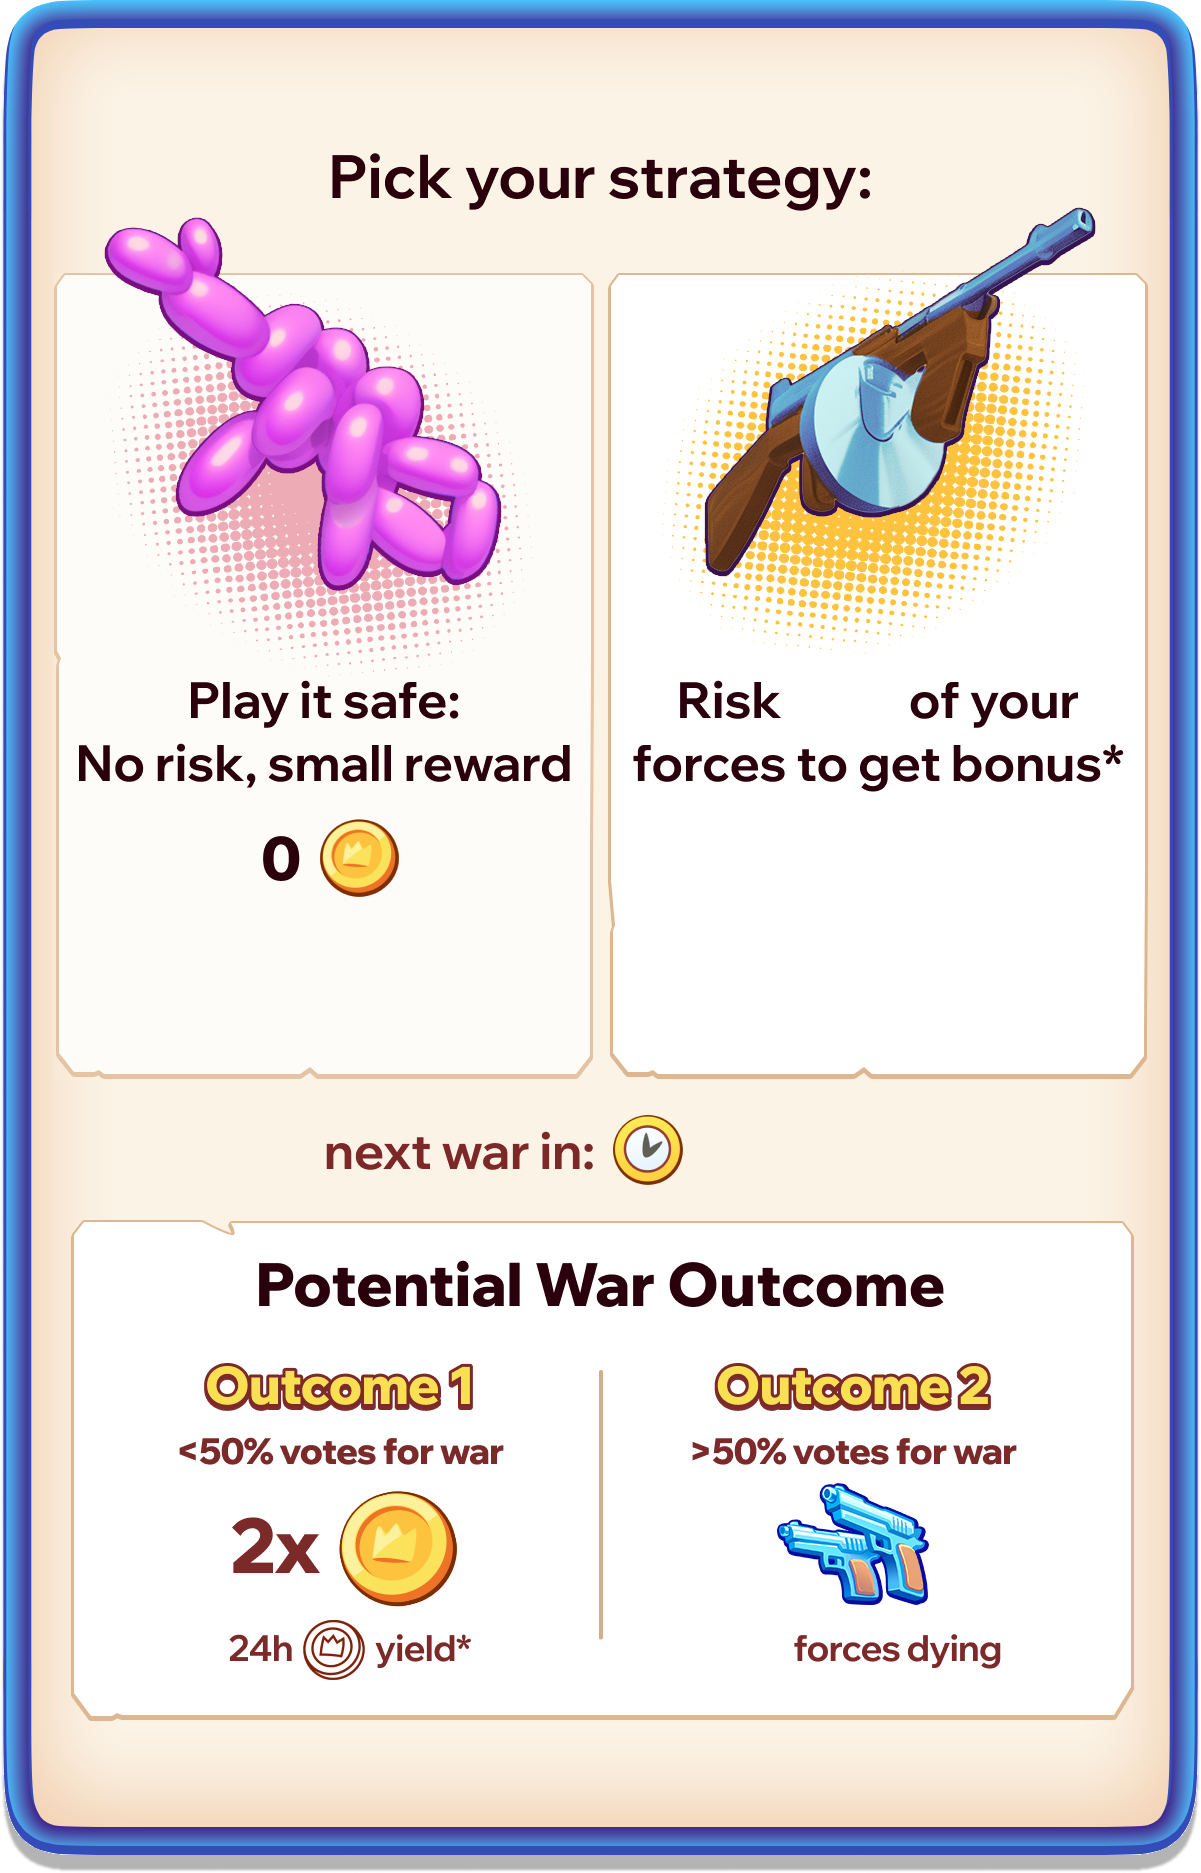
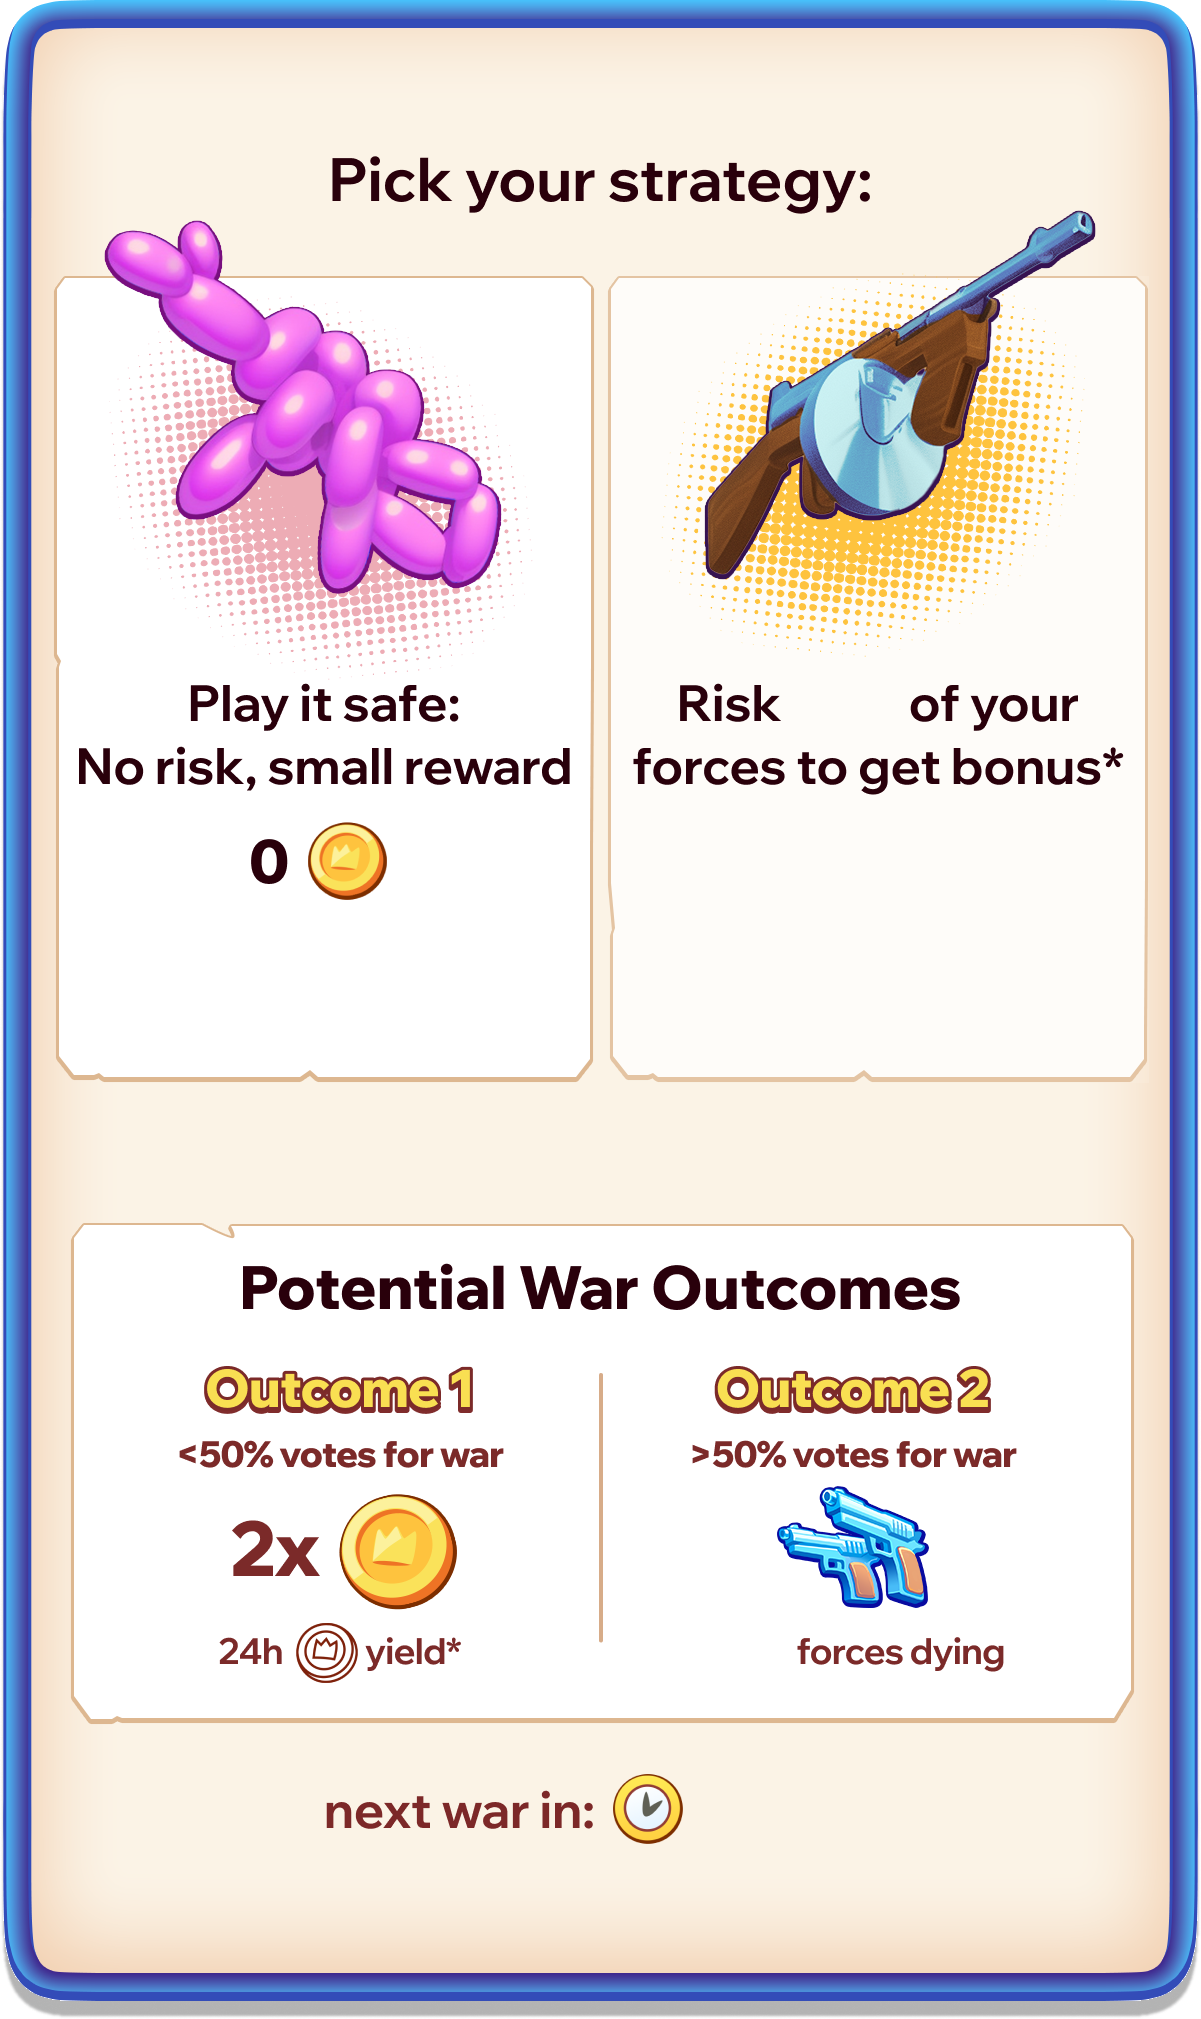
feat: show total voters in daily gang war modal

diff --git a/app/src/pages/Game/components/popup/PopupDailyGangWar.js b/app/src/pages/Game/components/popup/PopupDailyGangWar.js
@@ -31,14 +31,14 @@ class PopupDailyGangWar extends Popup {
     this.warSound = scene.sound.add('war', { loop: false });
 
     this.warBonusX = this.popup.x + this.popup.width * 0.25;
-    const warBonusY = this.popup.y - this.popup.height / 2 + this.popup.height * 0.455;
+    const warBonusY = this.popup.y - 145;
 
     this.warBonus = scene.add.text(this.warBonusX - 60, warBonusY, '0', largeBlackExtraBold).setOrigin(0.5, 0.5);
     this.warBonusCoin = scene.add.image(this.warBonusX + this.warBonus.width / 2, warBonusY, 'coin2');
     this.add(this.warBonus);
     this.add(this.warBonusCoin);
 
-    const contentY = this.popup.y + 50;
+    const contentY = this.popup.y - 20;
     const peaceX = this.popup.x - 380;
     const warX = this.popup.x + 220;
     const changeWarStatus = (war) => {
@@ -66,20 +66,30 @@ class PopupDailyGangWar extends Popup {
     this.add(peaceText);
     this.add(warText);
 
-    this.timeText = scene.add.text(this.popup.x + 120, this.popup.y + 185, '0h 00m', {
+    this.timeText = scene.add.text(this.popup.x + 120, this.popup.y + this.popup.height / 2 - 233, '0h 00m', {
       fontSize: '50px',
       color: colors.black,
       fontFamily: fontFamilies.extraBold,
     });
     this.add(this.timeText);
 
+    this.totalVoterText = scene.add.text(this.popup.x, this.popup.y + 140, 'Total Voters: 0', {
+      fontSize: '50px',
+      color: colors.brown,
+      fontFamily: fontFamilies.bold,
+    });
+    this.totalVoterText.setOrigin(0.5, 0.5);
+    this.add(this.totalVoterText);
+
     scene.game.events.on('update-balances', (data) => this.updateBonusRate(data));
+
     scene.game.events.on('update-war-status', ({ war }) => {
       this.checkedIconPeace.setVisible(!war);
       this.uncheckedIconPeace.setVisible(war);
       this.checkedIconWar.setVisible(war);
       this.uncheckedIconWar.setVisible(!war);
     });
+
     scene.game.events.on('update-next-war-time', ({ time }) => {
       const now = Date.now();
       const diffInMins = (time - now) / (60 * 1000);
@@ -89,10 +99,11 @@ class PopupDailyGangWar extends Popup {
       const timeText = `${hours}h ${mins.toString().padStart(2, '0')}m`;
       this.timeText.text = timeText;
     });
+
     scene.game.events.on('update-war-die-chance', ({ dieChance }) => {
       this.dieChance = dieChance;
 
-      const dieChanceText1Y = this.popup.y - this.popup.height / 2 + this.popup.height * 0.455 - 153;
+      const dieChanceText1Y = this.popup.y - 308;
       this.dieChanceText1 = scene.add
         .text(this.warBonusX - 55, dieChanceText1Y, `${dieChance * 100}%`, {
           fontSize: '50px',
@@ -102,7 +113,7 @@ class PopupDailyGangWar extends Popup {
         .setOrigin(0.5, 0.5);
       this.add(this.dieChanceText1);
 
-      const dieChanceText2Y = this.popup.y + this.popup.height / 2 - 223;
+      const dieChanceText2Y = this.popup.y + this.popup.height / 2 - 368;
       this.dieChanceText2 = scene.add
         .text(this.popup.x + 180, dieChanceText2Y, `${dieChance * 100}%`, {
           fontSize: fontSizes.small,
@@ -112,14 +123,21 @@ class PopupDailyGangWar extends Popup {
         .setOrigin(1, 0.5);
       this.add(this.dieChanceText2);
     });
+
+    scene.game.events.on('update-total-voters', ({ count }) => {
+      this.totalVoterText.text = `Total Voters: ${count}`;
+    });
+
     scene.game.events.emit('request-war-die-chance');
     scene.game.events.emit('request-war-status');
     scene.game.events.emit('request-next-war-time');
     scene.game.events.emit('request-balances');
+    scene.game.events.emit('request-total-voters');
   }
 
   onOpen() {
     this.scene.game.events.emit('request-next-war-time');
+    this.scene.game.events.emit('request-total-voters');
   }
 
   updateBonusRate({ dailyMoney }) {

diff --git a/app/src/pages/Game/index.js b/app/src/pages/Game/index.js
@@ -14,6 +14,7 @@ import { claimToken } from '../../services/transaction.service';
 import {
   getLeaderboard,
   getNextWarSnapshotUnixTime,
+  getTotalVoters,
   updateLastTimeSeenGangWarResult,
 } from '../../services/gamePlay.service';
 import { getLatestWar } from '../../services/war.service';
@@ -655,6 +656,17 @@ const Game = () => {
           console.error(err);
           Sentry.captureException(err);
         });
+      });
+
+      gameRef.current?.events.on('request-total-voters', () => {
+        getTotalVoters()
+          .then((res) => {
+            gameRef.current?.events.emit('update-total-voters', { count: res.data.count });
+          })
+          .catch((err) => {
+            console.error(err);
+            Sentry.captureException(err);
+          });
       });
 
       gameRef.current?.events.emit('user-info-loaded');

diff --git a/backend/controllers/gamePlay.controller.js b/backend/controllers/gamePlay.controller.js
@@ -2,6 +2,7 @@ import {
   getLeaderboard,
   getNextWarSnapshotUnixTime,
   updateLastTimeSeenWarResult,
+  getAllActiveGamePlay,
 } from '../services/gamePlay.service.js';
 
 export const getGamePlayLeaderboard = async (req, res) => {
@@ -26,6 +27,15 @@ export const updateLastTimeSeenGangWarResult = async (req, res) => {
   try {
     await updateLastTimeSeenWarResult(req.userId);
     return res.sendStatus(200);
+  } catch (err) {
+    return res.status(400).send(err.message);
+  }
+};
+
+export const getTotalVoters = async (req, res) => {
+  try {
+    const data = await getAllActiveGamePlay();
+    return res.status(200).send({ count: data });
   } catch (err) {
     return res.status(400).send(err.message);
   }

diff --git a/backend/routes/gamePlay.route.js b/backend/routes/gamePlay.route.js
@@ -5,6 +5,7 @@ import {
   getGamePlayLeaderboard,
   getNextWarSnapshot,
   updateLastTimeSeenGangWarResult,
+  getTotalVoters,
 } from '../controllers/gamePlay.controller.js';
 
 const router = Router();
@@ -12,5 +13,6 @@ const router = Router();
 router.get('/', auth, getGamePlayLeaderboard);
 router.get('/next-war-time', getNextWarSnapshot);
 router.put('/last-time-seen-war-result', auth, updateLastTimeSeenGangWarResult);
+router.get('/voters', getTotalVoters);
 
 export default router;

diff --git a/backend/services/gamePlay.service.js b/backend/services/gamePlay.service.js
@@ -56,3 +56,14 @@ export const updateLastTimeSeenWarResult = async (userId) => {
     lastTimeSeenWarResult: admin.firestore.FieldValue.serverTimestamp(),
   });
 };
+
+export const getAllActiveGamePlay = async () => {
+  const activeSeasonId = await getActiveSeasonId();
+  const snapshot = await firestore
+    .collection('gamePlay')
+    .where('seasonId', '==', activeSeasonId)
+    .where('active', '==', true)
+    .get();
+
+  return snapshot.size;
+};

diff --git a/app/src/services/gamePlay.service.js b/app/src/services/gamePlay.service.js
@@ -5,3 +5,5 @@ export const getLeaderboard = () => api.get('/api/v1/gamePlays');
 export const getNextWarSnapshotUnixTime = () => api.get('/api/v1/gamePlays/next-war-time');
 
 export const updateLastTimeSeenGangWarResult = () => api.put('/api/v1/gamePlays/last-time-seen-war-result');
+
+export const getTotalVoters = () => api.get('/api/v1/gamePlays/voters');
